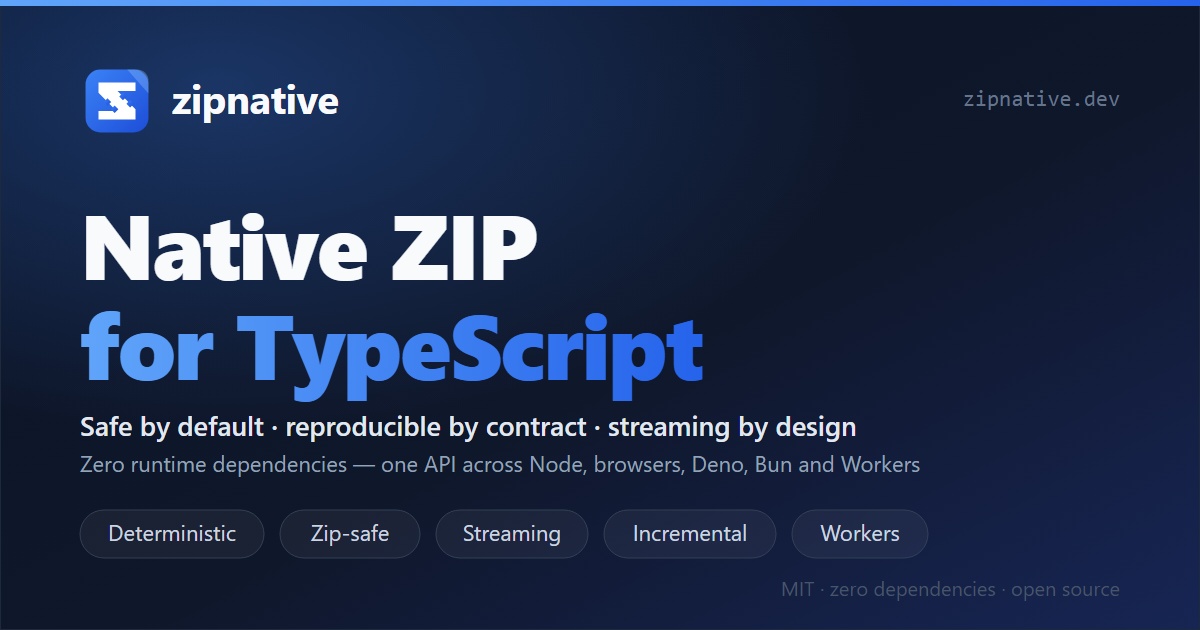
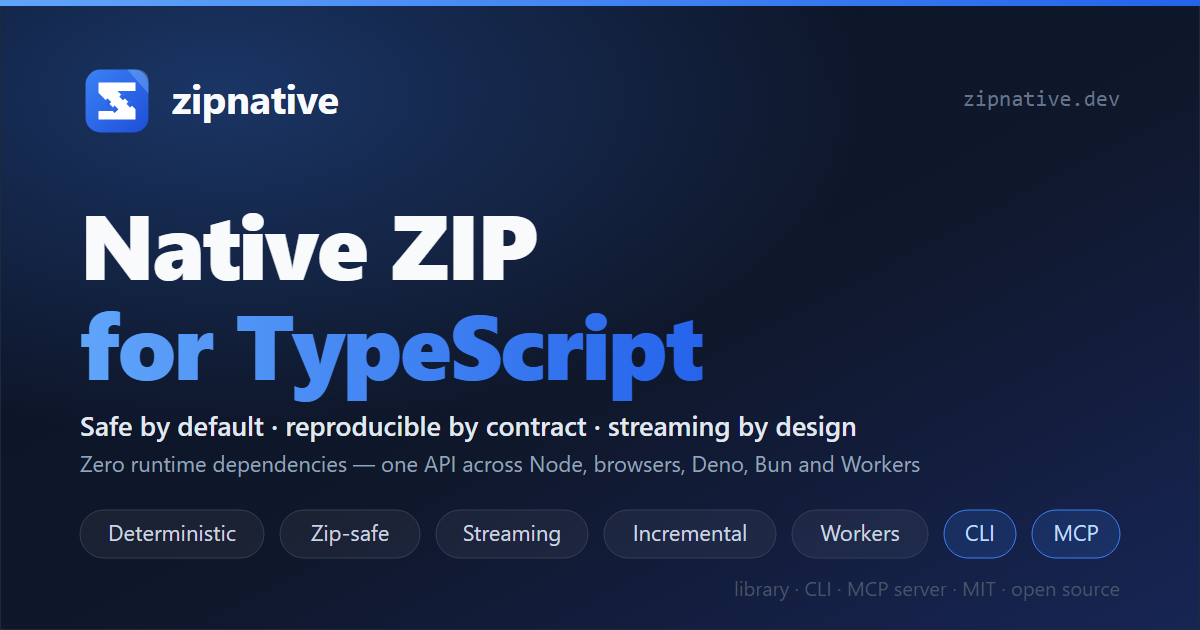
docs: ecosystem navigation on every page + CLI/MCP on the social images
Every HTML page's nav gains the Ecosystem entry; every guide and
playground footer links the choose, CLI and MCP guides and the two
satellite playgrounds (one idempotent sweep over 18 shells — the
rendered articles are untouched, build-guides reports 0 updated).
og-image.svg and social-preview.svg carry two accent pills, CLI and
MCP, and a footer line naming the three surfaces; both PNGs
re-rasterised at 1200×630 and 1280×640 with headless Edge.

Changed region(s): [[0.6167, 0.7841, 0.9558, 0.9651]]

diff --git a/docs/guides/security.html b/docs/guides/security.html
@@ -59,6 +59,7 @@
       <button class="nav-hamburger" aria-label="Toggle menu" aria-expanded="false">☰</button>
       <ul class="nav-links" role="list">
         <li><a href="../#features">Features</a></li>
+        <li><a href="../#ecosystem">Ecosystem</a></li>
         <li><a href="../#examples">Examples</a></li>
         <li><a href="../#comparison">Compare</a></li>
         <li><a href="../#benchmarks">Benchmarks</a></li>
@@ -174,6 +175,9 @@ and an adversarial fuzzing suite on Linux and Windows.</p>
           <ul>
             <li><a href="./">All guides</a></li>
             <li><a href="quickstart.html">Quickstart</a></li>
+            <li><a href="choose.html">Choosing your surface</a></li>
+            <li><a href="cli.html">CLI guide</a></li>
+            <li><a href="mcp.html">MCP guide</a></li>
             <li><a href="security.html">Security model</a></li>
             <li><a href="determinism.html">Determinism contract</a></li>
             <li><a href="errors.html">Errors and error codes</a></li>
@@ -184,6 +188,8 @@ and an adversarial fuzzing suite on Linux and Windows.</p>
         <div class="footer-col">
           <h4>Resources</h4>
           <ul>
+            <li><a href="../playgrounds/cli.html">CLI command builder</a></li>
+            <li><a href="../playgrounds/mcp.html">MCP tool explorer</a></li>
             <li><a href="../llms.txt">llms.txt</a></li>
             <li><a href="../llms-full.txt">llms-full.txt</a></li>
             <li><a href="../assets/api.json">api.json</a></li>

diff --git a/docs/guides/quickstart.html b/docs/guides/quickstart.html
@@ -59,6 +59,7 @@
       <button class="nav-hamburger" aria-label="Toggle menu" aria-expanded="false">☰</button>
       <ul class="nav-links" role="list">
         <li><a href="../#features">Features</a></li>
+        <li><a href="../#ecosystem">Ecosystem</a></li>
         <li><a href="../#examples">Examples</a></li>
         <li><a href="../#comparison">Compare</a></li>
         <li><a href="../#benchmarks">Benchmarks</a></li>
@@ -183,6 +184,9 @@ with <code>zipnative:</code> and names the remedy.</li>
           <ul>
             <li><a href="./">All guides</a></li>
             <li><a href="quickstart.html">Quickstart</a></li>
+            <li><a href="choose.html">Choosing your surface</a></li>
+            <li><a href="cli.html">CLI guide</a></li>
+            <li><a href="mcp.html">MCP guide</a></li>
             <li><a href="security.html">Security model</a></li>
             <li><a href="determinism.html">Determinism contract</a></li>
             <li><a href="errors.html">Errors and error codes</a></li>
@@ -193,6 +197,8 @@ with <code>zipnative:</code> and names the remedy.</li>
         <div class="footer-col">
           <h4>Resources</h4>
           <ul>
+            <li><a href="../playgrounds/cli.html">CLI command builder</a></li>
+            <li><a href="../playgrounds/mcp.html">MCP tool explorer</a></li>
             <li><a href="../llms.txt">llms.txt</a></li>
             <li><a href="../llms-full.txt">llms-full.txt</a></li>
             <li><a href="../assets/api.json">api.json</a></li>

diff --git a/docs/guides/use-cases.html b/docs/guides/use-cases.html
@@ -59,6 +59,7 @@
       <button class="nav-hamburger" aria-label="Toggle menu" aria-expanded="false">☰</button>
       <ul class="nav-links" role="list">
         <li><a href="../#features">Features</a></li>
+        <li><a href="../#ecosystem">Ecosystem</a></li>
         <li><a href="../#examples">Examples</a></li>
         <li><a href="../#comparison">Compare</a></li>
         <li><a href="../#benchmarks">Benchmarks</a></li>
@@ -341,6 +342,9 @@ surface every case is built from.</li>
           <ul>
             <li><a href="./">All guides</a></li>
             <li><a href="quickstart.html">Quickstart</a></li>
+            <li><a href="choose.html">Choosing your surface</a></li>
+            <li><a href="cli.html">CLI guide</a></li>
+            <li><a href="mcp.html">MCP guide</a></li>
             <li><a href="security.html">Security model</a></li>
             <li><a href="determinism.html">Determinism contract</a></li>
             <li><a href="errors.html">Errors and error codes</a></li>
@@ -351,6 +355,8 @@ surface every case is built from.</li>
         <div class="footer-col">
           <h4>Resources</h4>
           <ul>
+            <li><a href="../playgrounds/cli.html">CLI command builder</a></li>
+            <li><a href="../playgrounds/mcp.html">MCP tool explorer</a></li>
             <li><a href="../llms.txt">llms.txt</a></li>
             <li><a href="../llms-full.txt">llms-full.txt</a></li>
             <li><a href="../assets/api.json">api.json</a></li>

diff --git a/docs/guides/determinism.html b/docs/guides/determinism.html
@@ -59,6 +59,7 @@
       <button class="nav-hamburger" aria-label="Toggle menu" aria-expanded="false">☰</button>
       <ul class="nav-links" role="list">
         <li><a href="../#features">Features</a></li>
+        <li><a href="../#ecosystem">Ecosystem</a></li>
         <li><a href="../#examples">Examples</a></li>
         <li><a href="../#comparison">Compare</a></li>
         <li><a href="../#benchmarks">Benchmarks</a></li>
@@ -236,6 +237,9 @@ sha256(build()) === sha256(build());
           <ul>
             <li><a href="./">All guides</a></li>
             <li><a href="quickstart.html">Quickstart</a></li>
+            <li><a href="choose.html">Choosing your surface</a></li>
+            <li><a href="cli.html">CLI guide</a></li>
+            <li><a href="mcp.html">MCP guide</a></li>
             <li><a href="security.html">Security model</a></li>
             <li><a href="determinism.html">Determinism contract</a></li>
             <li><a href="errors.html">Errors and error codes</a></li>
@@ -246,6 +250,8 @@ sha256(build()) === sha256(build());
         <div class="footer-col">
           <h4>Resources</h4>
           <ul>
+            <li><a href="../playgrounds/cli.html">CLI command builder</a></li>
+            <li><a href="../playgrounds/mcp.html">MCP tool explorer</a></li>
             <li><a href="../llms.txt">llms.txt</a></li>
             <li><a href="../llms-full.txt">llms-full.txt</a></li>
             <li><a href="../assets/api.json">api.json</a></li>

diff --git a/docs/guides/conformance.html b/docs/guides/conformance.html
@@ -59,6 +59,7 @@
       <button class="nav-hamburger" aria-label="Toggle menu" aria-expanded="false">☰</button>
       <ul class="nav-links" role="list">
         <li><a href="../#features">Features</a></li>
+        <li><a href="../#ecosystem">Ecosystem</a></li>
         <li><a href="../#examples">Examples</a></li>
         <li><a href="../#comparison">Compare</a></li>
         <li><a href="../#benchmarks">Benchmarks</a></li>
@@ -255,6 +256,9 @@ reference validator rejects.</li>
           <ul>
             <li><a href="./">All guides</a></li>
             <li><a href="quickstart.html">Quickstart</a></li>
+            <li><a href="choose.html">Choosing your surface</a></li>
+            <li><a href="cli.html">CLI guide</a></li>
+            <li><a href="mcp.html">MCP guide</a></li>
             <li><a href="security.html">Security model</a></li>
             <li><a href="determinism.html">Determinism contract</a></li>
             <li><a href="errors.html">Errors and error codes</a></li>
@@ -265,6 +269,8 @@ reference validator rejects.</li>
         <div class="footer-col">
           <h4>Resources</h4>
           <ul>
+            <li><a href="../playgrounds/cli.html">CLI command builder</a></li>
+            <li><a href="../playgrounds/mcp.html">MCP tool explorer</a></li>
             <li><a href="../llms.txt">llms.txt</a></li>
             <li><a href="../llms-full.txt">llms-full.txt</a></li>
             <li><a href="../assets/api.json">api.json</a></li>

diff --git a/docs/guides/errors.html b/docs/guides/errors.html
@@ -59,6 +59,7 @@
       <button class="nav-hamburger" aria-label="Toggle menu" aria-expanded="false">☰</button>
       <ul class="nav-links" role="list">
         <li><a href="../#features">Features</a></li>
+        <li><a href="../#ecosystem">Ecosystem</a></li>
         <li><a href="../#examples">Examples</a></li>
         <li><a href="../#comparison">Compare</a></li>
         <li><a href="../#benchmarks">Benchmarks</a></li>
@@ -382,6 +383,9 @@ flag reproducibility losses.</li>
           <ul>
             <li><a href="./">All guides</a></li>
             <li><a href="quickstart.html">Quickstart</a></li>
+            <li><a href="choose.html">Choosing your surface</a></li>
+            <li><a href="cli.html">CLI guide</a></li>
+            <li><a href="mcp.html">MCP guide</a></li>
             <li><a href="security.html">Security model</a></li>
             <li><a href="determinism.html">Determinism contract</a></li>
             <li><a href="errors.html">Errors and error codes</a></li>
@@ -392,6 +396,8 @@ flag reproducibility losses.</li>
         <div class="footer-col">
           <h4>Resources</h4>
           <ul>
+            <li><a href="../playgrounds/cli.html">CLI command builder</a></li>
+            <li><a href="../playgrounds/mcp.html">MCP tool explorer</a></li>
             <li><a href="../llms.txt">llms.txt</a></li>
             <li><a href="../llms-full.txt">llms-full.txt</a></li>
             <li><a href="../assets/api.json">api.json</a></li>

diff --git a/docs/playgrounds/index.html b/docs/playgrounds/index.html
@@ -62,6 +62,7 @@
       <button class="nav-hamburger" aria-label="Toggle menu" aria-expanded="false">☰</button>
       <ul class="nav-links" role="list">
         <li><a href="../#features">Features</a></li>
+        <li><a href="../#ecosystem">Ecosystem</a></li>
         <li><a href="../#examples">Examples</a></li>
         <li><a href="../#architecture">Architecture</a></li>
         <li><a href="../guides/">Guides</a></li>
@@ -168,6 +169,9 @@
           <ul>
             <li><a href="../guides/">All guides</a></li>
             <li><a href="../guides/quickstart.html">Quickstart</a></li>
+            <li><a href="../guides/choose.html">Choosing your surface</a></li>
+            <li><a href="../guides/cli.html">CLI guide</a></li>
+            <li><a href="../guides/mcp.html">MCP guide</a></li>
             <li><a href="../guides/use-cases.html">Use cases</a></li>
           </ul>
         </div>

diff --git a/docs/guides/index.html b/docs/guides/index.html
@@ -29,6 +29,7 @@
       <button class="nav-hamburger" aria-label="Toggle menu" aria-expanded="false">☰</button>
       <ul class="nav-links" role="list">
         <li><a href="../#features">Features</a></li>
+        <li><a href="../#ecosystem">Ecosystem</a></li>
         <li><a href="../#examples">Examples</a></li>
         <li><a href="../#comparison">Compare</a></li>
         <li><a href="../#benchmarks">Benchmarks</a></li>
@@ -143,6 +144,8 @@
         <div class="footer-col">
           <h4>Resources</h4>
           <ul>
+            <li><a href="../playgrounds/cli.html">CLI command builder</a></li>
+            <li><a href="../playgrounds/mcp.html">MCP tool explorer</a></li>
             <li><a href="../llms.txt">llms.txt</a></li>
             <li><a href="../llms-full.txt">llms-full.txt</a></li>
             <li><a href="../assets/api.json">api.json</a></li>

diff --git a/docs/playgrounds/secure-extract.html b/docs/playgrounds/secure-extract.html
@@ -42,6 +42,7 @@
       <button class="nav-hamburger" aria-label="Toggle menu" aria-expanded="false">☰</button>
       <ul class="nav-links" role="list">
         <li><a href="../#features">Features</a></li>
+        <li><a href="../#ecosystem">Ecosystem</a></li>
         <li><a href="../guides/security.html">Security</a></li>
         <li><a href="./">Playgrounds</a></li>
         <li><a href="https://github.com/Nizoka/zipnative" rel="noopener" target="_blank">GitHub</a></li>

diff --git a/docs/playgrounds/cli.html b/docs/playgrounds/cli.html
@@ -94,6 +94,7 @@
       <button class="nav-hamburger" aria-label="Toggle menu" aria-expanded="false">☰</button>
       <ul class="nav-links" role="list">
         <li><a href="../#features">Features</a></li>
+        <li><a href="../#ecosystem">Ecosystem</a></li>
         <li><a href="../guides/">Guides</a></li>
         <li><a href="./">Playgrounds</a></li>
         <li><a href="https://github.com/Nizoka/zipnative" rel="noopener" target="_blank">GitHub</a></li>

diff --git a/docs/playgrounds/inspect.html b/docs/playgrounds/inspect.html
@@ -42,6 +42,7 @@
       <button class="nav-hamburger" aria-label="Toggle menu" aria-expanded="false">☰</button>
       <ul class="nav-links" role="list">
         <li><a href="../#features">Features</a></li>
+        <li><a href="../#ecosystem">Ecosystem</a></li>
         <li><a href="../guides/">Guides</a></li>
         <li><a href="./">Playgrounds</a></li>
         <li><a href="https://github.com/Nizoka/zipnative" rel="noopener" target="_blank">GitHub</a></li>

diff --git a/docs/playgrounds/mcp.html b/docs/playgrounds/mcp.html
@@ -90,6 +90,7 @@
       <button class="nav-hamburger" aria-label="Toggle menu" aria-expanded="false">☰</button>
       <ul class="nav-links" role="list">
         <li><a href="../#features">Features</a></li>
+        <li><a href="../#ecosystem">Ecosystem</a></li>
         <li><a href="../guides/">Guides</a></li>
         <li><a href="./">Playgrounds</a></li>
         <li><a href="https://github.com/Nizoka/zipnative" rel="noopener" target="_blank">GitHub</a></li>
